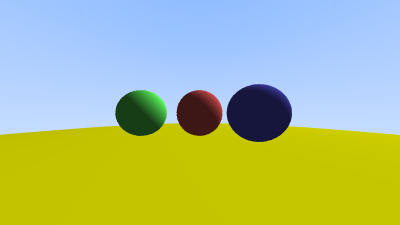
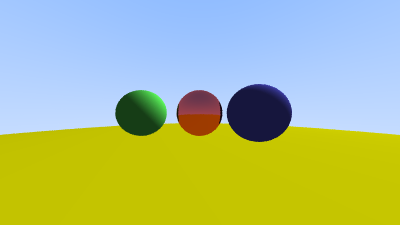
implemented ray recursion and specular reflection

Changed region(s): [[0.42, 0.4044, 0.57, 0.6222], [0.81, 0.56, 0.84, 0.5911]]

diff --git a/raytracer.py b/raytracer.py
@@ -2,10 +2,15 @@ import numpy as np
 from PIL import Image
 
 from camera import Camera
-from ray import Ray, normalize
+from ray import Ray, normalize, reflect
 from sphere import Sphere
 
-def ray_color(ray: Ray, world: list[Sphere]) -> np.ndarray:
+MAX_DEPTH = 10
+
+def ray_color(ray: Ray, world: list[Sphere], depth: int) -> np.ndarray:
+
+    if depth >= MAX_DEPTH:
+        return np.array([0.0, 0.0, 0.0], dtype=np.float32)
 
     shortest_hit_time = float('inf')
     hit_record = None
@@ -19,12 +24,22 @@ def ray_color(ray: Ray, world: list[Sphere]) -> np.ndarray:
     if hit_record:
         normal = hit_record.normal
         material_base_color = hit_record.base_color
-        light_direction = normalize(np.array([1.0, 1.0, -0.5], dtype=np.float32))
-        diffuse_intensity = max(np.dot(normal, light_direction), 0.0)
-        ambient = 0.3
-        color = ambient * material_base_color + diffuse_intensity * material_base_color
-        color = np.clip(color, 0.0, 1.0)
-        return color
+        
+        if hit_record.is_mirror:
+            incoming_direction = normalize(ray.direction)
+            reflected_direction = reflect(incoming_direction, normal)
+            reflected_origin = hit_record.point + normal * 1e-3
+            reflected_ray = Ray(reflected_origin, reflected_direction)
+            
+            reflected_color = ray_color(reflected_ray, world, depth + 1)
+            return np.clip(material_base_color * reflected_color, 0.0, 1.0)
+        else:
+            light_direction = normalize(np.array([1.0, 1.0, -0.5], dtype=np.float32))
+            diffuse_intensity = max(np.dot(normal, light_direction), 0.0)
+            ambient = 0.3
+            color = ambient * material_base_color + diffuse_intensity * material_base_color
+            color = np.clip(color, 0.0, 1.0)
+            return color
 
     unit_direction = normalize(ray.direction)
     blueness = .5 * (unit_direction[1] + 1.0)
@@ -53,6 +68,7 @@ def main():
             center=np.array([0.0, 0.0, -1.0], dtype=np.float32),
             radius=0.2,
             base_color=np.array([0.8, 0.3, 0.3], dtype=np.float32),
+            is_mirror=True
         ),
         Sphere(
             center=np.array([-1.0, 0.0, -2.0], dtype=np.float32),
@@ -79,7 +95,7 @@ def main():
                 vertical_percentage = (height - 1 - row + np.random.rand()) / (height - 1)
 
                 ray = camera.get_ray(horizontal_percentage, vertical_percentage)
-                pixel_color += ray_color(ray, world)
+                pixel_color += ray_color(ray, world, 0)
 
             pixel_color /= samples_per_pixel    
             image[row, col, :] = pixel_color

diff --git a/sphere.py b/sphere.py
@@ -1,21 +1,14 @@
 import numpy as np
-from dataclasses import dataclass
 import math
-
+from hit_record import HitRecord
 from ray import Ray, normalize
 
-@dataclass
-class HitRecord:
-    time: float
-    point: np.ndarray
-    normal: np.ndarray
-    base_color: np.ndarray
-
 class Sphere:
-    def __init__(self, center: np.ndarray, radius: float, base_color: np.ndarray):
+    def __init__(self, center: np.ndarray, radius: float, base_color: np.ndarray, is_mirror: bool = False):
         self.center = center
         self.radius = radius
         self.base_color = base_color
+        self.is_mirror = is_mirror
     
     def hit(self, ray: Ray, time_min: float, time_max: float) -> HitRecord | None:
         o_minus_c = ray.origin - self.center
@@ -41,5 +34,6 @@ class Sphere:
             time=hit_time,
             point=hit_point,
             normal=normal,
-            base_color=self.base_color
+            base_color=self.base_color,
+            is_mirror=self.is_mirror
         )

diff --git a/ray.py b/ray.py
@@ -6,6 +6,9 @@ def normalize(vector: np.ndarray) -> np.ndarray:
         return vector / norm
     return vector
 
+def reflect(vector: np.ndarray, normal: np.ndarray) -> np.ndarray:
+    return vector - 2.0 * np.dot(vector, normal) * normal #Vector has to be normalized
+
 class Ray:
     def __init__(self, origin: np.ndarray, direction: np.ndarray):
         self.origin = origin

diff --git a/hit_record.py b/hit_record.py
@@ -1,0 +1,11 @@
+import numpy as np
+from dataclasses import dataclass
+
+
+@dataclass
+class HitRecord:
+    time: float
+    point: np.ndarray
+    normal: np.ndarray
+    base_color: np.ndarray
+    is_mirror: bool
